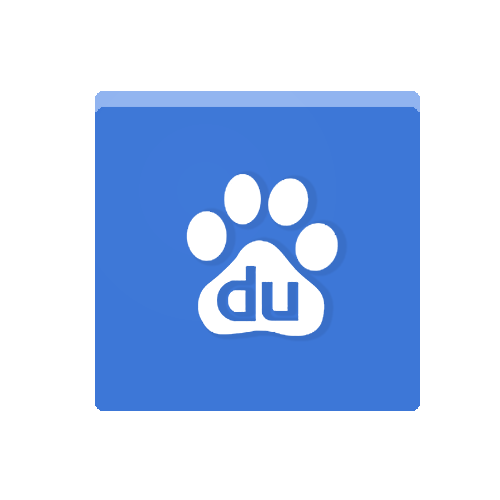
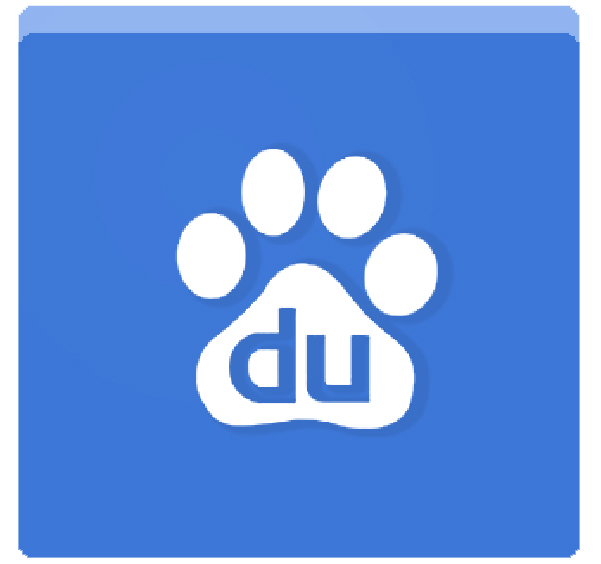
modify the size of picture in the index

diff --git a/Application/Home/View/index/index.html b/Application/Home/View/index/index.html
@@ -12,7 +12,7 @@
         </div>
     </section>
     <section class="section" id="baidu">
-        <a class="baiduicon" href="#"><img src="__PUBLIC__/img/baidu.jpg" height="200" width="200"></a>
+        <a class="baiduicon" href="#"><img src="__PUBLIC__/img/baidu.png" height="200" width="200"></a>
         <div class="enter">
             <input type="submit" onclick="location='#'" value="Baidu" >
         </div>
